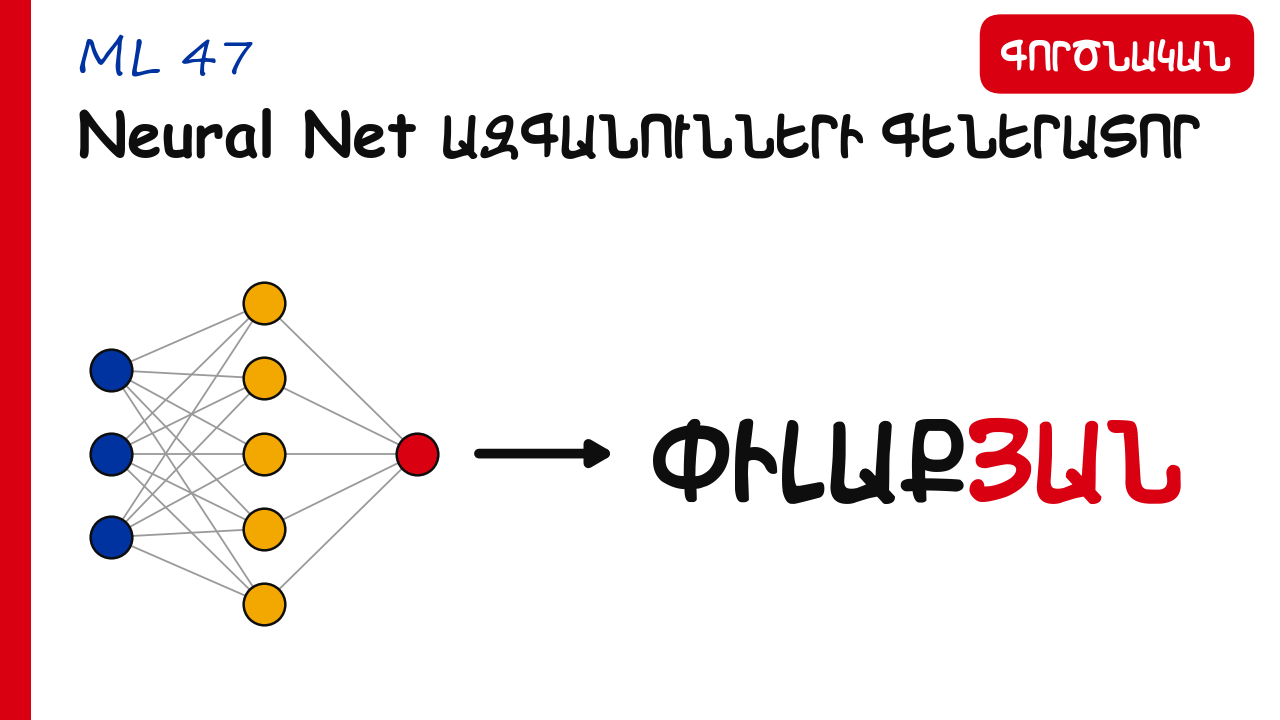
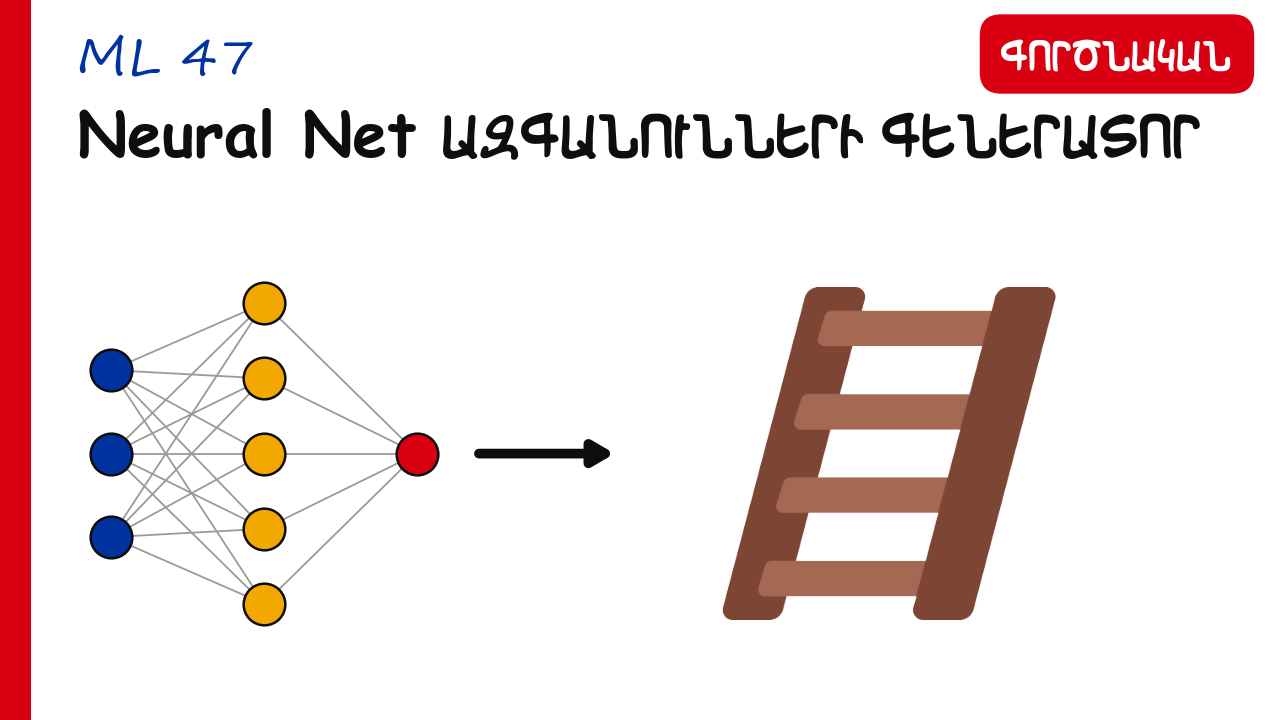
ML47 thumbnail: the net writes a ladder emoji instead of the surname
Phi-la-kyan, the lecture's example surname, means ladder (the user's idea), so
the net now outputs the ladder emoji. It is drawn in colour by PIL from
Windows' Segoe UI Emoji, since matplotlib renders that colour font as a black
silhouette. The surname version is kept as a comment.

Changed region(s): [[0.5, 0.3972, 0.9375, 0.8861]]

diff --git a/scripts/make_thumbnails_final.py b/scripts/make_thumbnails_final.py
@@ -28,6 +28,7 @@ import matplotlib.pyplot as plt
 import numpy as np
 from matplotlib import font_manager
 from matplotlib.patches import Rectangle, Circle
+from PIL import Image, ImageDraw, ImageFont
 from mpl_toolkits.mplot3d import Axes3D  # noqa: F401  (registers 3d projection)
 
 if sys.stdout.encoding and sys.stdout.encoding.lower() != "utf-8":
@@ -1509,10 +1510,14 @@ def draw_ml46_numpy_net(fig, bbox):
 
 def draw_ml47_name_inventor(fig, bbox):
     """ML 47 / the Armenian surname generator (practical): a small net, an
-    arrow, and the surname it writes - Փիլաքյան, the example the lecture opens
-    with (it is not one of the 689 training surnames). The user asked for this
-    simple picture over the notebook's plots. The -յան ending is in red: 945 of
-    the trained model's 1000 inventions end that way."""
+    arrow, and a ladder emoji. The lecture's opening example surname is
+    Փիլաքյան, which (as the user pointed out) means ladder, so the net "writes"
+    a ladder. The user asked for this simple picture over the notebook's plots.
+
+    The emoji (U+1FA9C) is drawn in colour by PIL from Windows' Segoe UI Emoji:
+    matplotlib would render that colour font as a black silhouette.
+    Previous version (kept below the arrow code as a comment): the surname
+    itself, ՓԻԼԱՔ + a red ՅԱՆ."""
     ax = fig.add_axes(bbox)
     ax.set_xlim(0, 1)
     ax.set_ylim(0, 1)
@@ -1530,12 +1535,28 @@ def draw_ml47_name_inventor(fig, bbox):
     ax.annotate("", xy=(0.47, 0.5), xytext=(0.35, 0.5),
                 arrowprops=dict(arrowstyle="-|>,head_length=1.2,head_width=0.7",
                                 lw=7, color=TITLE_COLOR))
-    word = ax.text(0.50, 0.5, "ՓԻԼԱՔ", ha="left", va="center", fontsize=84,
-                   fontproperties=ARM_PROPS, color=TITLE_COLOR)
-    fig.canvas.draw()
-    x_end = word.get_window_extent().transformed(ax.transData.inverted()).x1
-    ax.text(x_end, 0.5, "ՅԱՆ", ha="left", va="center", fontsize=84,
-            fontproperties=ARM_PROPS, color=LINE_COLOR)
+    # Previous version, the surname instead of the ladder:
+    # word = ax.text(0.50, 0.5, "ՓԻԼԱՔ", ha="left", va="center", fontsize=84,
+    #                fontproperties=ARM_PROPS, color=TITLE_COLOR)
+    # fig.canvas.draw()
+    # x_end = word.get_window_extent().transformed(ax.transData.inverted()).x1
+    # ax.text(x_end, 0.5, "ՅԱՆ", ha="left", va="center", fontsize=84,
+    #         fontproperties=ARM_PROPS, color=LINE_COLOR)
+    emoji_font = ImageFont.truetype("C:/Windows/Fonts/seguiemj.ttf", 400)
+    im = Image.new("RGBA", (600, 600), (255, 255, 255, 0))
+    ImageDraw.Draw(im).text((300, 300), "\U0001FA9C", font=emoji_font,
+                            embedded_color=True, anchor="mm")
+    ink = im.getbbox()
+    if ink is None:
+        raise ValueError("ladder emoji rendered empty - Segoe UI Emoji lacks U+1FA9C?")
+    im = im.crop(ink)
+    x0, y0, w, h = bbox
+    eh = 0.80 * h                                       # emoji height, figure fraction
+    ew = eh * (im.width / im.height) * (7.2 / 12.8)
+    cx = x0 + 0.70 * w
+    ax_e = fig.add_axes([cx - ew / 2, y0 + (h - eh) / 2, ew, eh])
+    ax_e.imshow(np.asarray(im))
+    ax_e.axis("off")
 
 
 LESSONS = [
